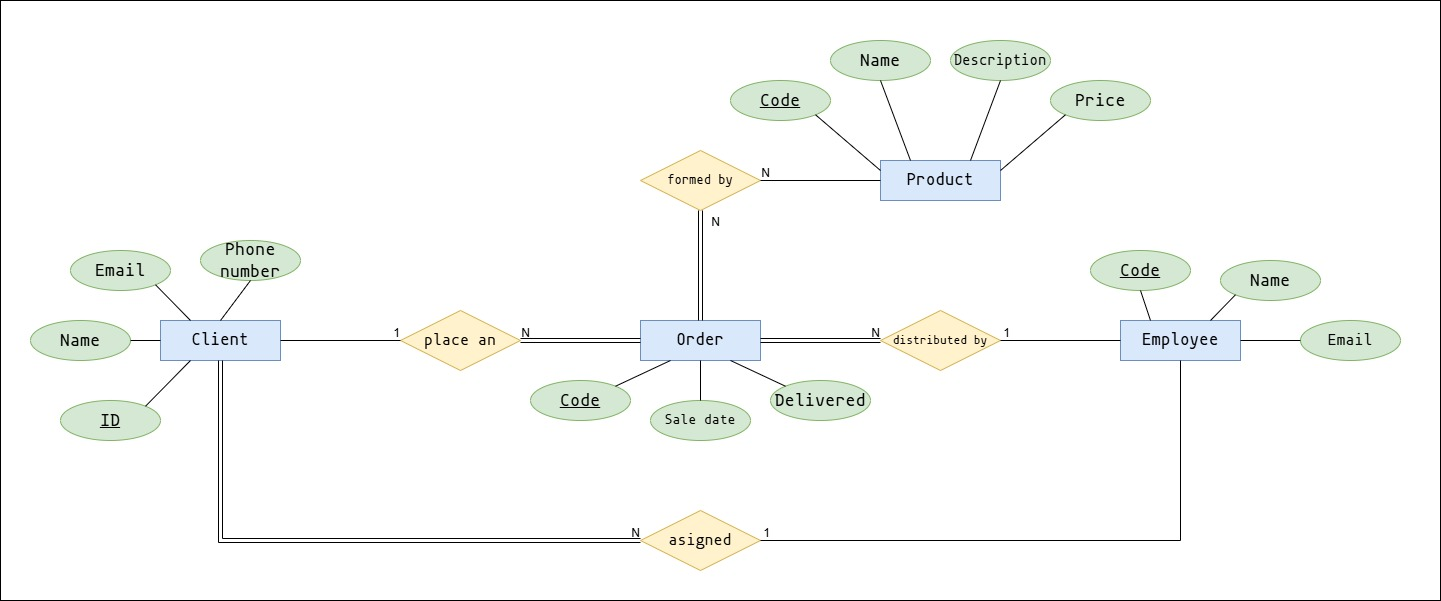
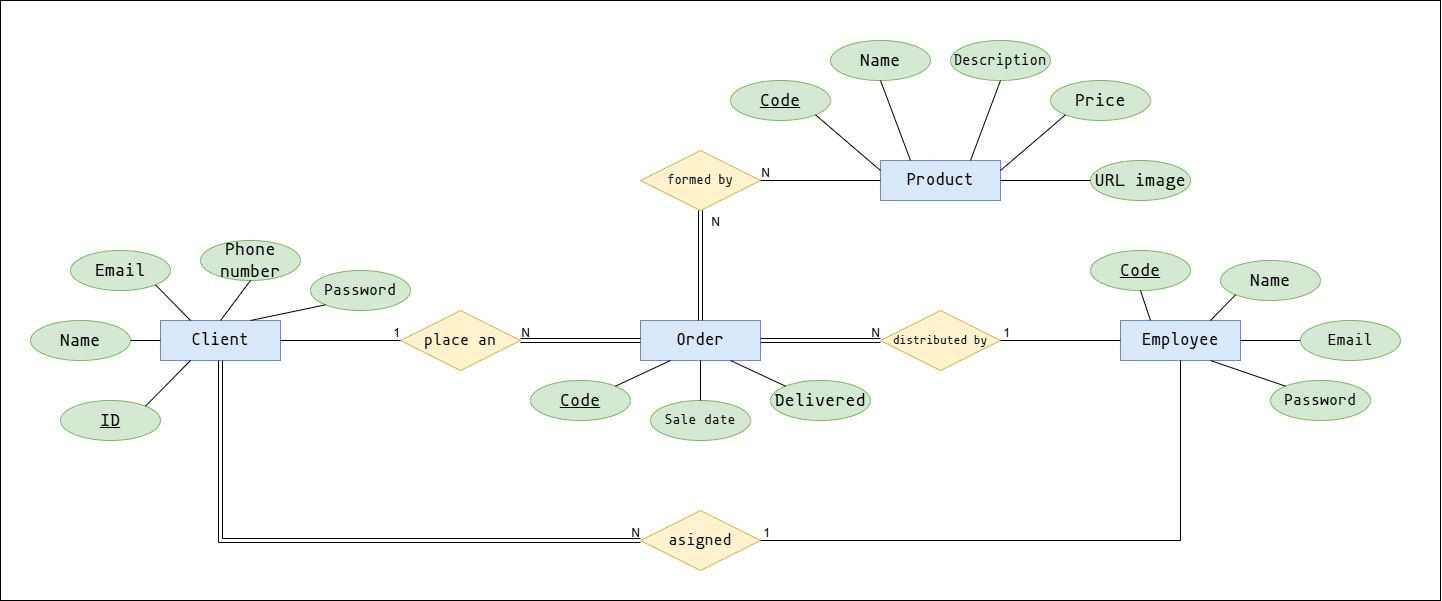
[DOC] Updated database's design

diff --git a/doc/Database.md b/doc/Database.md
@@ -12,6 +12,7 @@ erDiagram
     string email
     string phoneNumber
     id asignedEmployee
+    string password
   }
   Order {
     int code PK
@@ -25,11 +26,13 @@ erDiagram
     string name
     string description
     float price
+    string UrlImage
   }
   Employee {
     int code PK
     string name
     string email
+    string password
   }
   ProductOrder {
     int codeProduct PK
